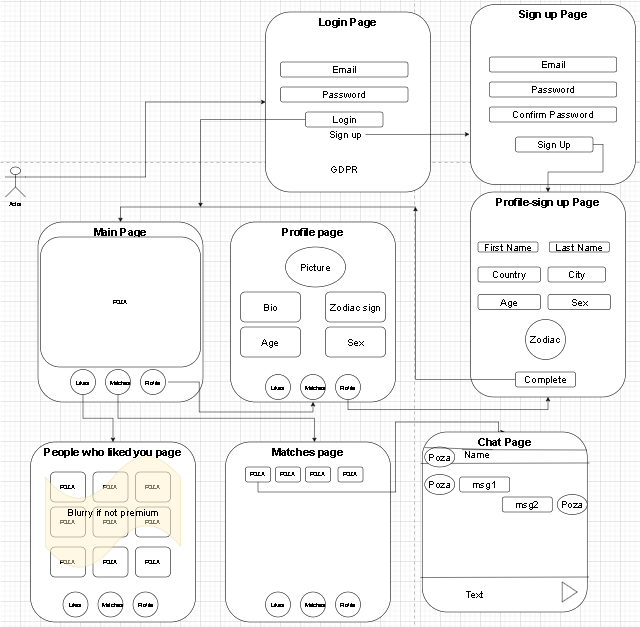
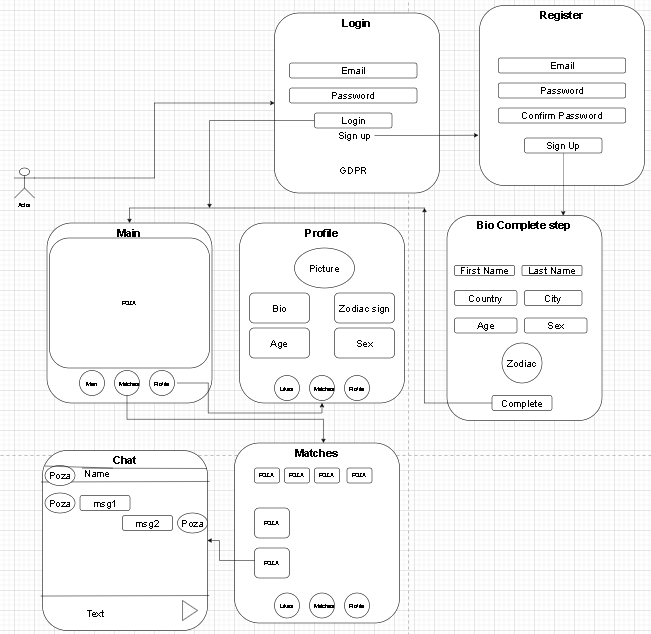
added pics for readme

diff --git a/README.MD b/README.MD
@@ -45,21 +45,28 @@ Prezentarea aplicatie
 
 Main page
 ---
+![](documentatie/img/main.JPG)
 
 Login page
 ---
+![](documentatie/img/login.JPG)
 
 Sign up page
 ---
-
-Profile page
----
+![](documentatie/img/signup.JPG)
 
 Profile-sign-up page
 ---
+![](documentatie/img/signupbio.JPG)
+
+Profile page
+---
+![](documentatie/img/profile.JPG)
 
 Matches page
 ---
+![](documentatie/img/matches.JPG)
 
 Chat page
 ---
+![](documentatie/img/chat.JPG)
